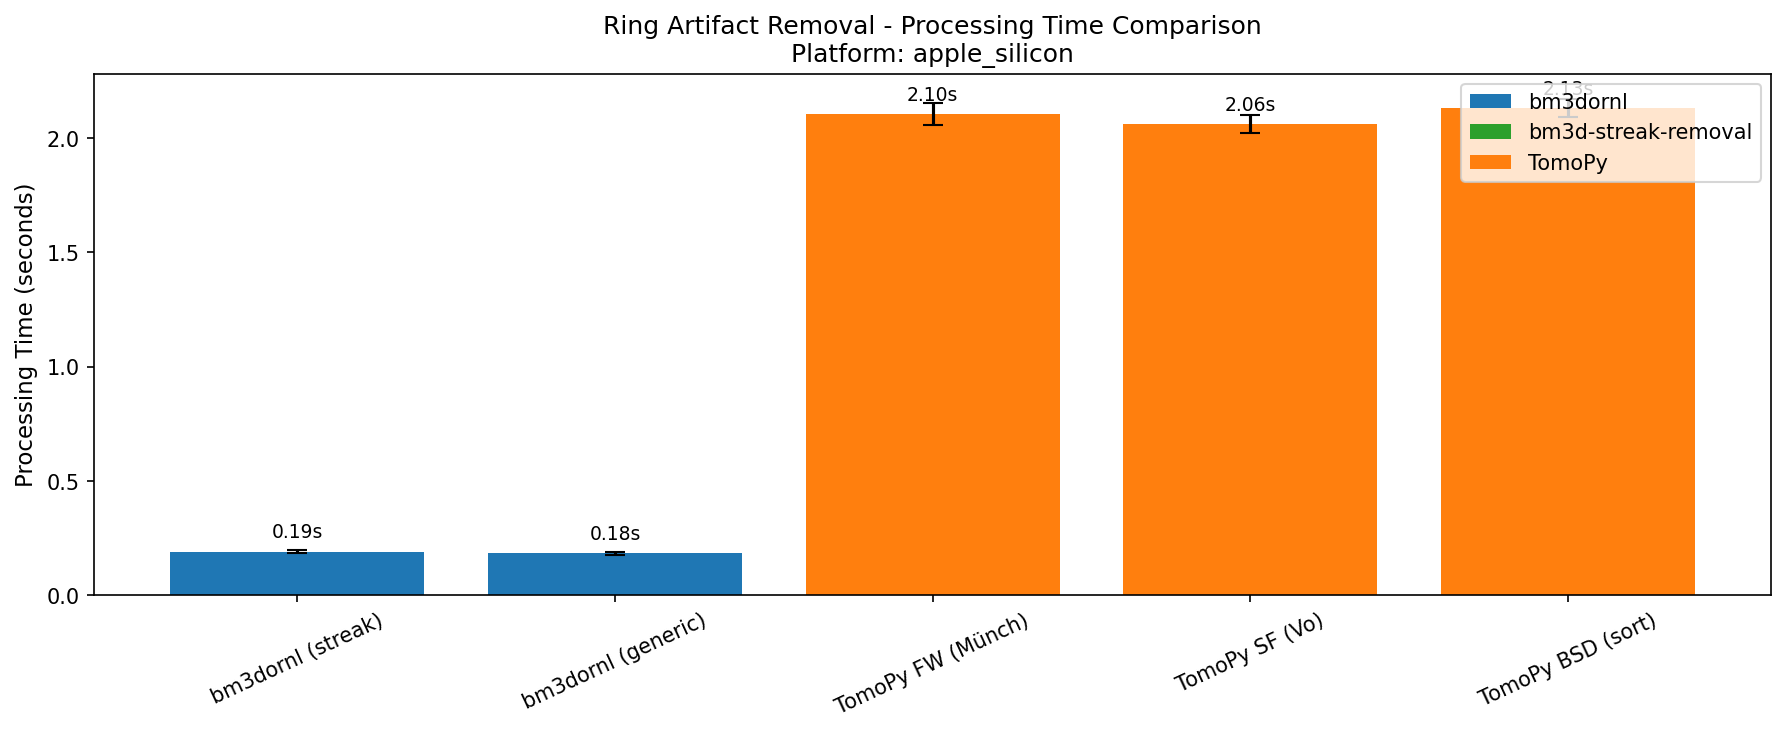
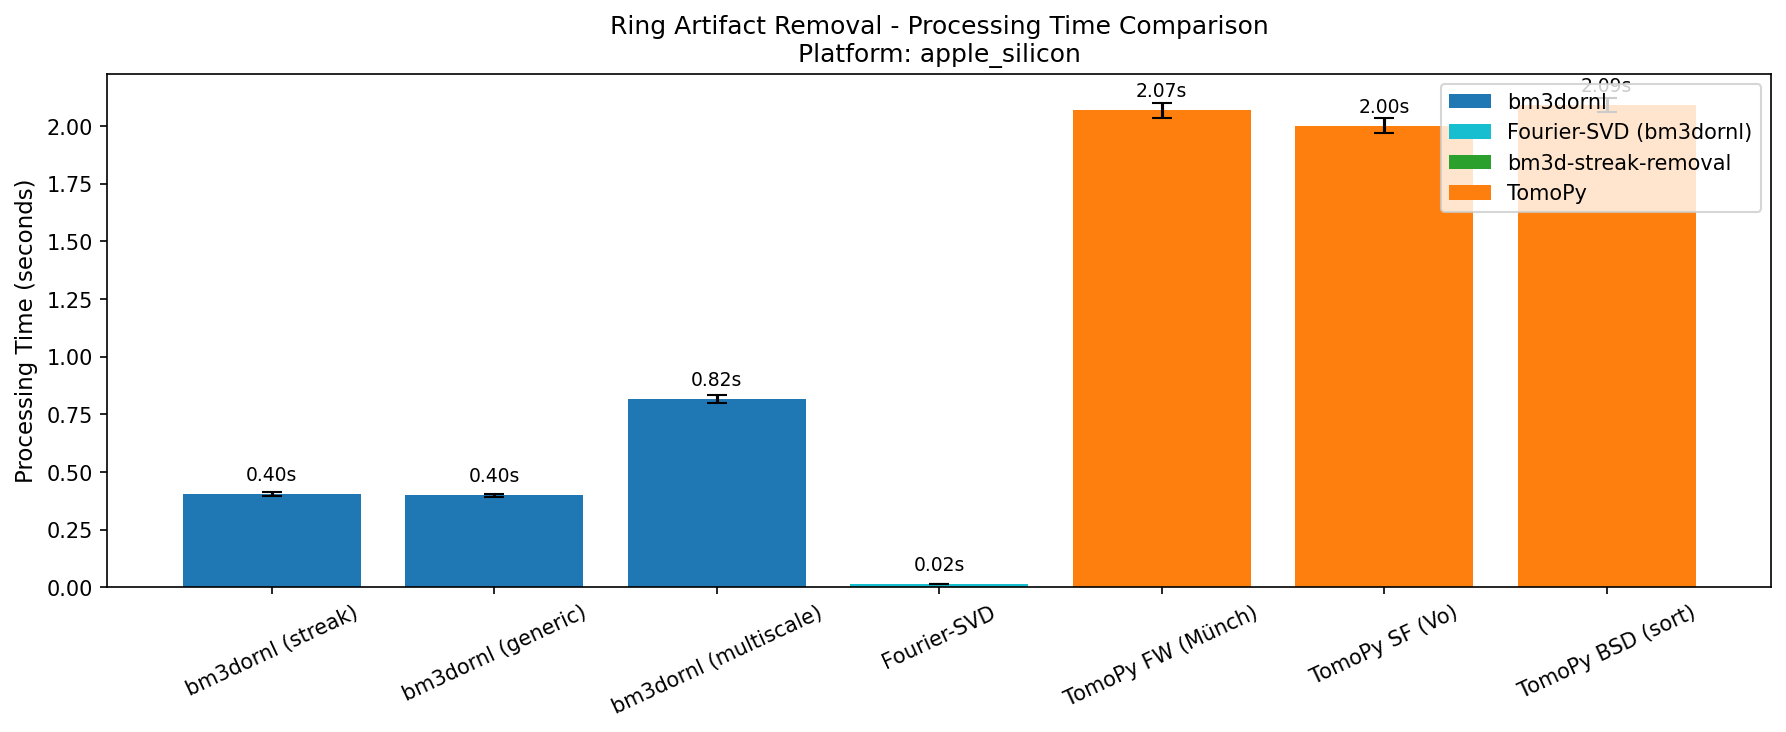
update JOSS paper with multiscale and svd method

diff --git a/study/unified_visualization.py b/study/unified_visualization.py
@@ -58,6 +58,8 @@ def load_all_results():
     method_files = {
         "bm3dornl (streak)": "result_bm3dornl_streak.npy",
         "bm3dornl (generic)": "result_bm3dornl_generic.npy",
+        "bm3dornl (multiscale)": "result_bm3dornl_multiscale.npy",
+        "Fourier-SVD": "result_Fourier-SVD.npy",
         "TomoPy FW (Münch)": "result_TomoPy_FW_Münch.npy",
         "TomoPy SF (Vo)": "result_TomoPy_SF_Vo.npy",
         "TomoPy BSD (sort)": "result_TomoPy_BSD_sort.npy",
@@ -151,11 +153,13 @@ def create_unified_comparison_grid(data, results):
         # Color-code title
         method = r["method"]
         if "bm3dornl" in method:
-            color = "#1f77b4"
+            color = "#1f77b4"  # blue
+        elif "Fourier-SVD" in method:
+            color = "#17becf"  # cyan/teal (also bm3dornl)
         elif "bm3d-streak" in method:
-            color = "#2ca02c"
+            color = "#2ca02c"  # green
         else:
-            color = "#ff7f0e"
+            color = "#ff7f0e"  # orange (TomoPy)
 
         title = f"{method}\n{r['time_mean']:.2f}s | PSNR={r['psnr']:.1f}"
         ax.set_title(title, fontsize=9, color=color, fontweight="bold")
@@ -207,11 +211,13 @@ def create_unified_timing_chart(results):
     # Color coding
     def get_color(m):
         if "bm3dornl" in m:
-            return "#1f77b4"
+            return "#1f77b4"  # blue
+        elif "Fourier-SVD" in m:
+            return "#17becf"  # cyan/teal (also bm3dornl)
         elif "bm3d-streak" in m:
-            return "#2ca02c"
+            return "#2ca02c"  # green
         else:
-            return "#ff7f0e"
+            return "#ff7f0e"  # orange (TomoPy)
 
     colors = [get_color(m) for m in methods]
 
@@ -237,6 +243,7 @@ def create_unified_timing_chart(results):
     from matplotlib.patches import Patch
     legend_elements = [
         Patch(facecolor="#1f77b4", label="bm3dornl"),
+        Patch(facecolor="#17becf", label="Fourier-SVD (bm3dornl)"),
         Patch(facecolor="#2ca02c", label="bm3d-streak-removal"),
         Patch(facecolor="#ff7f0e", label="TomoPy"),
     ]
@@ -265,11 +272,13 @@ def create_unified_quality_chart(results):
     # Color coding
     def get_color(m):
         if "bm3dornl" in m:
-            return "#1f77b4"
+            return "#1f77b4"  # blue
+        elif "Fourier-SVD" in m:
+            return "#17becf"  # cyan/teal (also bm3dornl)
         elif "bm3d-streak" in m:
-            return "#2ca02c"
+            return "#2ca02c"  # green
         else:
-            return "#ff7f0e"
+            return "#ff7f0e"  # orange (TomoPy)
 
     colors = [get_color(m) for m in methods]
 

diff --git a/paper/paper.md b/paper/paper.md
@@ -53,25 +53,27 @@ Several software packages implement pre-processing streak removal for tomography
 
 \autoref{fig:input} shows the benchmark input data: a synthetic sinogram (720$\times$725 pixels) with simulated ring artifacts and the corresponding clean ground truth.
 All benchmark results are from Linux x86_64 to enable comparison with bm3d-streak-removal, which provides only x86_64 binaries.
-We compared six methods: two BM3DORNL modes (streak and generic), three TomoPy algorithms (wavelet-Fourier, sorting-fitting, and sorting-based), and the original bm3d-streak-removal.
+We compared eight methods: four BM3DORNL variants (streak, generic, multiscale, and Fourier-SVD), three TomoPy algorithms (wavelet-Fourier, sorting-fitting, and sorting-based), and the original bm3d-streak-removal.
+The multiscale variant implements the pyramid approach from Mäkinen et al. [@mäkinen2021], while Fourier-SVD is a lightweight FFT-guided method that achieves comparable quality at 50$\times$ faster speeds.
 
 ![Benchmark input data. (a) Input sinogram with simulated ring artifacts. (b) Ground truth (clean sinogram). The dashed rectangle indicates the crop region shown in \autoref{fig:results}.\label{fig:input}](figure1_input.png){ width=100% }
 
-**Speed comparison:** \autoref{fig:metrics}(a) shows processing times (n=30 runs on Linux x86_64).
-BM3DORNL processes sinograms in 0.26 seconds compared to 41 seconds for bm3d-streak-removal---a 160$\times$ speedup.
-BM3DORNL and TomoPy methods achieve comparable processing times (0.2--0.4 seconds).
-Cross-platform performance differs substantially: TomoPy runs 6--7$\times$ slower on Apple Silicon than Linux x86_64 (likely due to unoptimized C extensions), whereas BM3DORNL runs 20--35% faster on Apple Silicon due to its ARM-optimized Rust backend.
+**Speed comparison:** \autoref{fig:metrics}(a) shows processing times (n=100 runs on Linux x86_64).
+Fourier-SVD is the fastest method at 0.017 seconds, achieving 2300$\times$ speedup over bm3d-streak-removal (39.9 seconds).
+The BM3D-based methods span a performance range: standard BM3DORNL processes sinograms in 0.4 seconds (100$\times$ faster than bm3d-streak-removal), while multiscale BM3DORNL takes 0.9 seconds (44$\times$ faster) due to pyramid processing.
+TomoPy methods achieve comparable processing times (0.7--0.8 seconds).
+Cross-platform performance differs substantially: TomoPy runs 2.5--3$\times$ slower on Apple Silicon than Linux x86_64 (likely due to unoptimized C extensions), whereas BM3DORNL runs at comparable speeds (within 10%) across platforms due to its Rust backend.
 
-**Quality analysis:** \autoref{fig:results} shows cropped results from all six methods with their difference images (result minus ground truth).
+**Quality analysis:** \autoref{fig:results} shows cropped results from all eight methods with their difference images (result minus ground truth).
 The benchmark reveals that quality metrics alone do not tell the full story.
-TomoPy SF achieves the highest SSIM (0.96, see \autoref{fig:metrics}(b)), but difference image analysis shows residual vertical stripes in its output.
+TomoPy SF achieves the highest SSIM (0.987, see \autoref{fig:metrics}(b)), but difference image analysis shows residual vertical stripes in its output.
 This occurs because SSIM uses local windows (7$\times$7 or 11$\times$11 pixels), and narrow vertical stripes affect few pixels per window.
-Conversely, BM3DORNL's lower SSIM (0.58--0.62) reflects its aggressive removal of vertical patterns---the algorithm removes real artifact signal, which numerically appears as "error" versus ground truth.
-The difference images reveal that BM3DORNL produces clean vertical stripes (blue bands), indicating successful artifact removal, while TomoPy methods leave faint residual patterns.
+Interestingly, both multiscale BM3DORNL and Fourier-SVD achieve excellent SSIM scores (0.951) while maintaining fast processing times---Fourier-SVD accomplishes this at 0.017 seconds, demonstrating that aggressive artifact removal and high-quality reconstruction are achievable without computationally expensive multi-scale processing.
+The difference images reveal that all BM3DORNL variants produce clean vertical patterns, indicating successful artifact removal, while TomoPy methods leave faint residual artifacts.
 
 ![Method comparison. Top row: Cropped results from each method with processing times. Bottom row: Difference images (result minus ground truth) using a zero-centered RdBu colormap---blue indicates artifact removal, red indicates added artifacts. Data from Linux x86_64.\label{fig:results}](figure2_results.png){ width=100% }
 
-![Performance metrics (Linux x86_64, n=30 runs). (a) Processing time comparison on linear scale, showing BM3DORNL's 160$\times$ speedup over bm3d-streak-removal. (b) Quality metrics (PSNR vs SSIM) showing trade-offs between methods. BM3DORNL (blue), TomoPy (orange), bm3d-streak-removal (green).\label{fig:metrics}](figure3_metrics.png){ width=100% }
+![Performance metrics (Linux x86_64, n=100 runs). (a) Processing time comparison on linear scale, showing Fourier-SVD's 2300$\times$ speedup and standard BM3DORNL's 100$\times$ speedup over bm3d-streak-removal. (b) Quality metrics (PSNR vs SSIM) showing trade-offs between methods. BM3DORNL variants (blue/cyan), TomoPy (orange), bm3d-streak-removal (green).\label{fig:metrics}](figure3_metrics.png){ width=100% }
 
 **Platform support:** bm3d-streak-removal is unavailable on Apple Silicon (x86_64 binaries only), incompatible with Python 3.11+, and restricted to non-commercial use.
 BM3DORNL provides native performance on all platforms, supports Python 3.12+, and uses the MIT license for unrestricted commercial use.
@@ -96,7 +98,9 @@ The library provides a minimal Python API:
 from bm3dornl import bm3d_ring_artifact_removal
 
 cleaned = bm3d_ring_artifact_removal(
-    sinogram, mode="streak", sigma=0.1
+    sinogram,
+    mode="streak",
+    sigma=0.0, # default to automatic noise estimation
 )
 ```
 
@@ -107,8 +111,8 @@ At 0.2--0.3 seconds per sinogram, scientists can explore parameter space interac
 # Research Impact
 
 BM3DORNL is being integrated into processing pipelines at the VENUS and MARS beamlines at Oak Ridge National Laboratory.
-The 160$\times$ speed improvement fundamentally changes workflow possibilities: scientists can now interactively tune denoising parameters and immediately see results, rather than waiting 41 seconds between parameter adjustments.
-For batch processing, a 1000-sinogram dataset that would take 11.4 hours with bm3d-streak-removal completes in 4.3 minutes with BM3DORNL.
+The library provides multiple performance tiers: Fourier-SVD enables real-time parameter exploration at 0.017 seconds per sinogram (2300$\times$ faster than bm3d-streak-removal), standard BM3DORNL offers robust denoising at 0.4 seconds (100$\times$ speedup), and multiscale BM3DORNL provides maximum quality at 0.9 seconds (44$\times$ speedup).
+For batch processing, a 1000-sinogram dataset that would take 11 hours with bm3d-streak-removal completes in 17 seconds (Fourier-SVD), 7 minutes (standard BM3DORNL), or 15 minutes (multiscale BM3DORNL).
 
 The hybrid Rust-Python architecture demonstrates a modern approach to scientific software development: Rust provides memory safety and performance portability (single codebase compiles natively to arm64 and x86_64), while Python ensures integration with the NumPy/SciPy ecosystem.
 This pattern is increasingly valuable as the scientific computing community diversifies hardware platforms.
